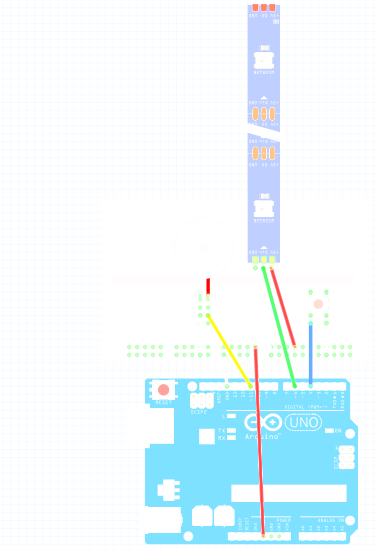
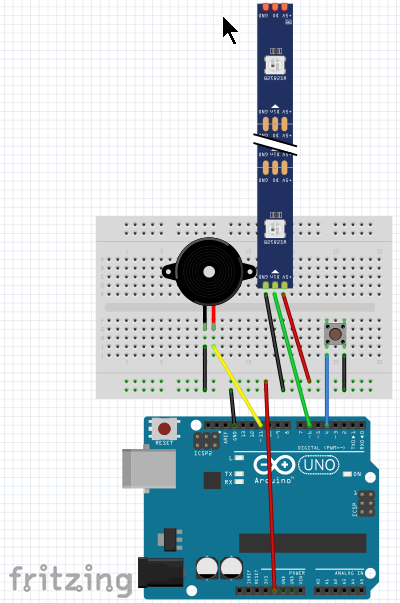
ドキュメント追記、画像更新

diff --git a/README.md b/README.md
@@ -6,6 +6,7 @@
 - 「フラッシュザウルス」については「[東京フレンドパークのアトラクション一覧](https://ja.wikipedia.org/wiki/%E6%9D%B1%E4%BA%AC%E3%83%95%E3%83%AC%E3%83%B3%E3%83%89%E3%83%91%E3%83%BC%E3%82%AF%E3%81%AE%E3%82%A2%E3%83%88%E3%83%A9%E3%82%AF%E3%82%B7%E3%83%A7%E3%83%B3%E4%B8%80%E8%A6%A7)」を参考に。
 
 ## ゲーム概要
+
 以下は、本物のフラッシュザウルスのルールでなく、本スケッチでのルール。
 + ボタンを押すとゲーム開始。
 + 1ゲーム10ラウンド制。
@@ -17,27 +18,50 @@
 + ボタンを押しながらarduino本体の電源を入れると輝度調整モードに入る。希望輝度でボタンを離す。
 
 ## 参考
+
 - https://github.com/adafruit/Adafruit_NeoPixel
   - ライブラリマネージャからインストールしておく。
 - https://github.com/lalaso2000/Music/
   - 本ソースに含む。曲データは適宜差し替えた。
 
 ## 利用パーツ
+
 リンク先は作例で使用したもの。
-+ LEDテープ 144個を想定
-  - Adafruit_NeoPixelで利用できるもの。
-  - [ALITOVE WS2812B LEDテープ1m 144連 NeoPixel RGB TAPE LED 5050 SMD LEDテープライトピクセル 防水 黒いベース 5V DC](https://www.amazon.co.jp/dp/B01MYT6JH9/)
+
++ Arduino UNO Rev.3 で動作確認
+  - due は IO電圧が3.3Vだが、WS2812B の操作は可能、ただし、tone()が利用できないため、本スケッチはそのまま利用できない。
+    - due 用 tone() の例：https://forum.arduino.cc/t/arduino-due-and-tone/133302/2
+  - その他の arduino でも基本的には動作すると思われる。
++ Arduino と LEDテープ・スイッチ・ブザー接続用のユニバーサル基板
+  - [スイッチ・サイエンス：Arduino用バニラシールド基板](https://www.switch-science.com/products/991)
+    - 別途ピンヘッダ、もしくはピンソケットが必要。
+    - （説明）[スイッチ・サイエンス：バニラシールド](https://trac.switch-science.com/wiki/VanillaShield)
+  - arduinoのピンソケットはシールド基板の逆接続防止に一部間隔がずれているので、一般的なユニバーサル基板を使う場合はピンヘッダを曲げてズレに対応させる（おすすめはしない）。
++ LEDテープ 144個を想定。amazonで2,000円程度。
+  - Adafruit_NeoPixelで利用できるもの。以下で動作確認した。
+  - [amazon：ALITOVE WS2812B LEDテープ1m 144連 NeoPixel RGB TAPE LED 5050 SMD LEDテープライトピクセル 防水 黒いベース 5V DC](https://www.amazon.co.jp/dp/B01MYT6JH9/)
+    - 2017年10月購入
+  - [amazon：BTF-LIGHTING WS2812B LEDテープライト 5050 SMD RGBIC 合金ワイヤー 1m 144LEDs](https://www.amazon.co.jp/dp/B088JTMSYY/)
+    - 2024年7月購入
+  - WS2812B の詳細はこちらから
+    - [秋月電子：マイコン内蔵RGBLED WS2812B](https://akizukidenshi.com/catalog/g/g107915/)
 + パッシブブザー
   - arduino tone()で利用できるもの。
   - 電源に接続するだけで音が出るものはアクティブブザー。tone()で利用できない。
-  - [KKHMF 20個パッシブブザー 電磁 ユニバーサル インピーダンス 16R 12*8.5mm ピッチ 6.5mm](https://www.amazon.co.jp/gp/product/B08LB2GYD1/)
+  - [amazon：KKHMF 20個パッシブブザー 電磁 ユニバーサル インピーダンス 16R 12*8.5mm ピッチ 6.5mm](https://www.amazon.co.jp/gp/product/B08LB2GYD1/)
 + 押ボタンスイッチ
   - 押している間だけONになるモーメンタリなものを使う。
-  - [押しボタンスイッチ AR22シリーズ 突形(Φ24) 非照光式 取付穴径22.3/25.5mm モメンタリ 1a](https://www.monotaro.com/p/3492/4644/)
+  - [モノタロウ：押しボタンスイッチ AR22シリーズ 突形(Φ24) 非照光式 取付穴径22.3/25.5mm モメンタリ 1a](https://www.monotaro.com/p/3492/4644/)
+    - 取付穴寸法：直径22mm。ストロークが長いと不評だった。
+  - [千石通商：三和電子　OBSF-24](https://www.sengoku.co.jp/mod/sgk_cart/detail.php?code=55AU-8ALR)
+    - 取付穴寸法：直径24mm。
++ ケース
+  - ダイソーの食品用容器
 
 
 ## 注意
 + LEDをあまり明るくすると電源がもたないかも。
+  -  [秋月電子：マイコン内蔵RGBLED WS2812B](https://akizukidenshi.com/catalog/g/g107915/)の[データシート](https://akizukidenshi.com/goodsaffix/WS2812B_20200225.pdff)だと動作電流が「12mA」とあり、144個全てが12mA使うと「1.728A」に達する。
 
 
 ## 回路図
@@ -57,5 +81,6 @@
 
 ----
 
+2024-07-18 ohguma 本ドキュメント追記、画像更新
 2024-07-07 ohguma 低得点時の補正、ハイスコア表示、等対応
 2024-07-06 ohguma 初版
